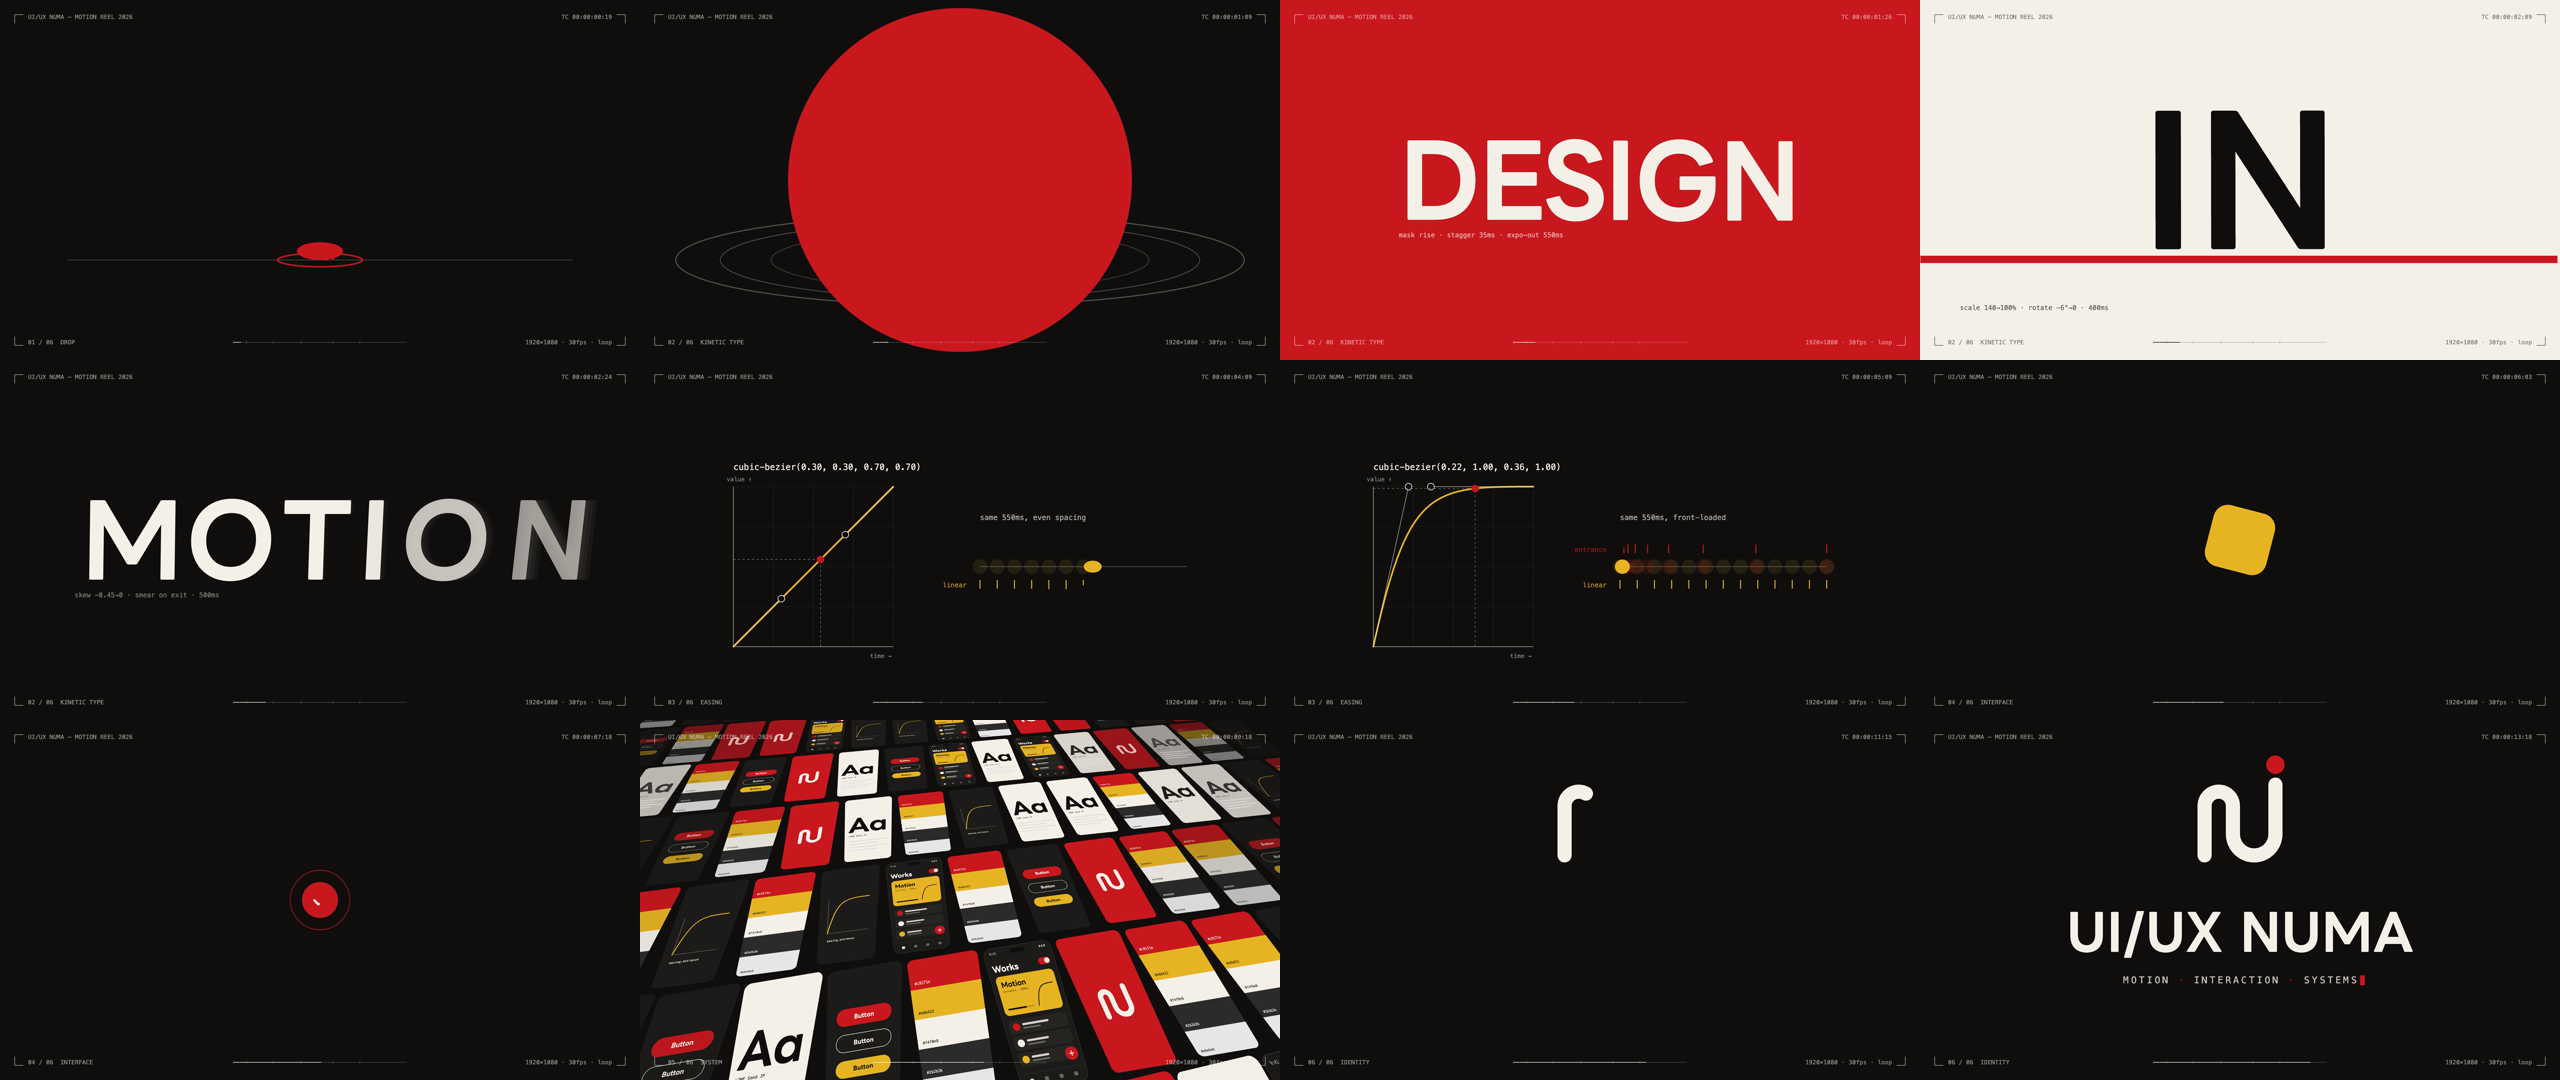
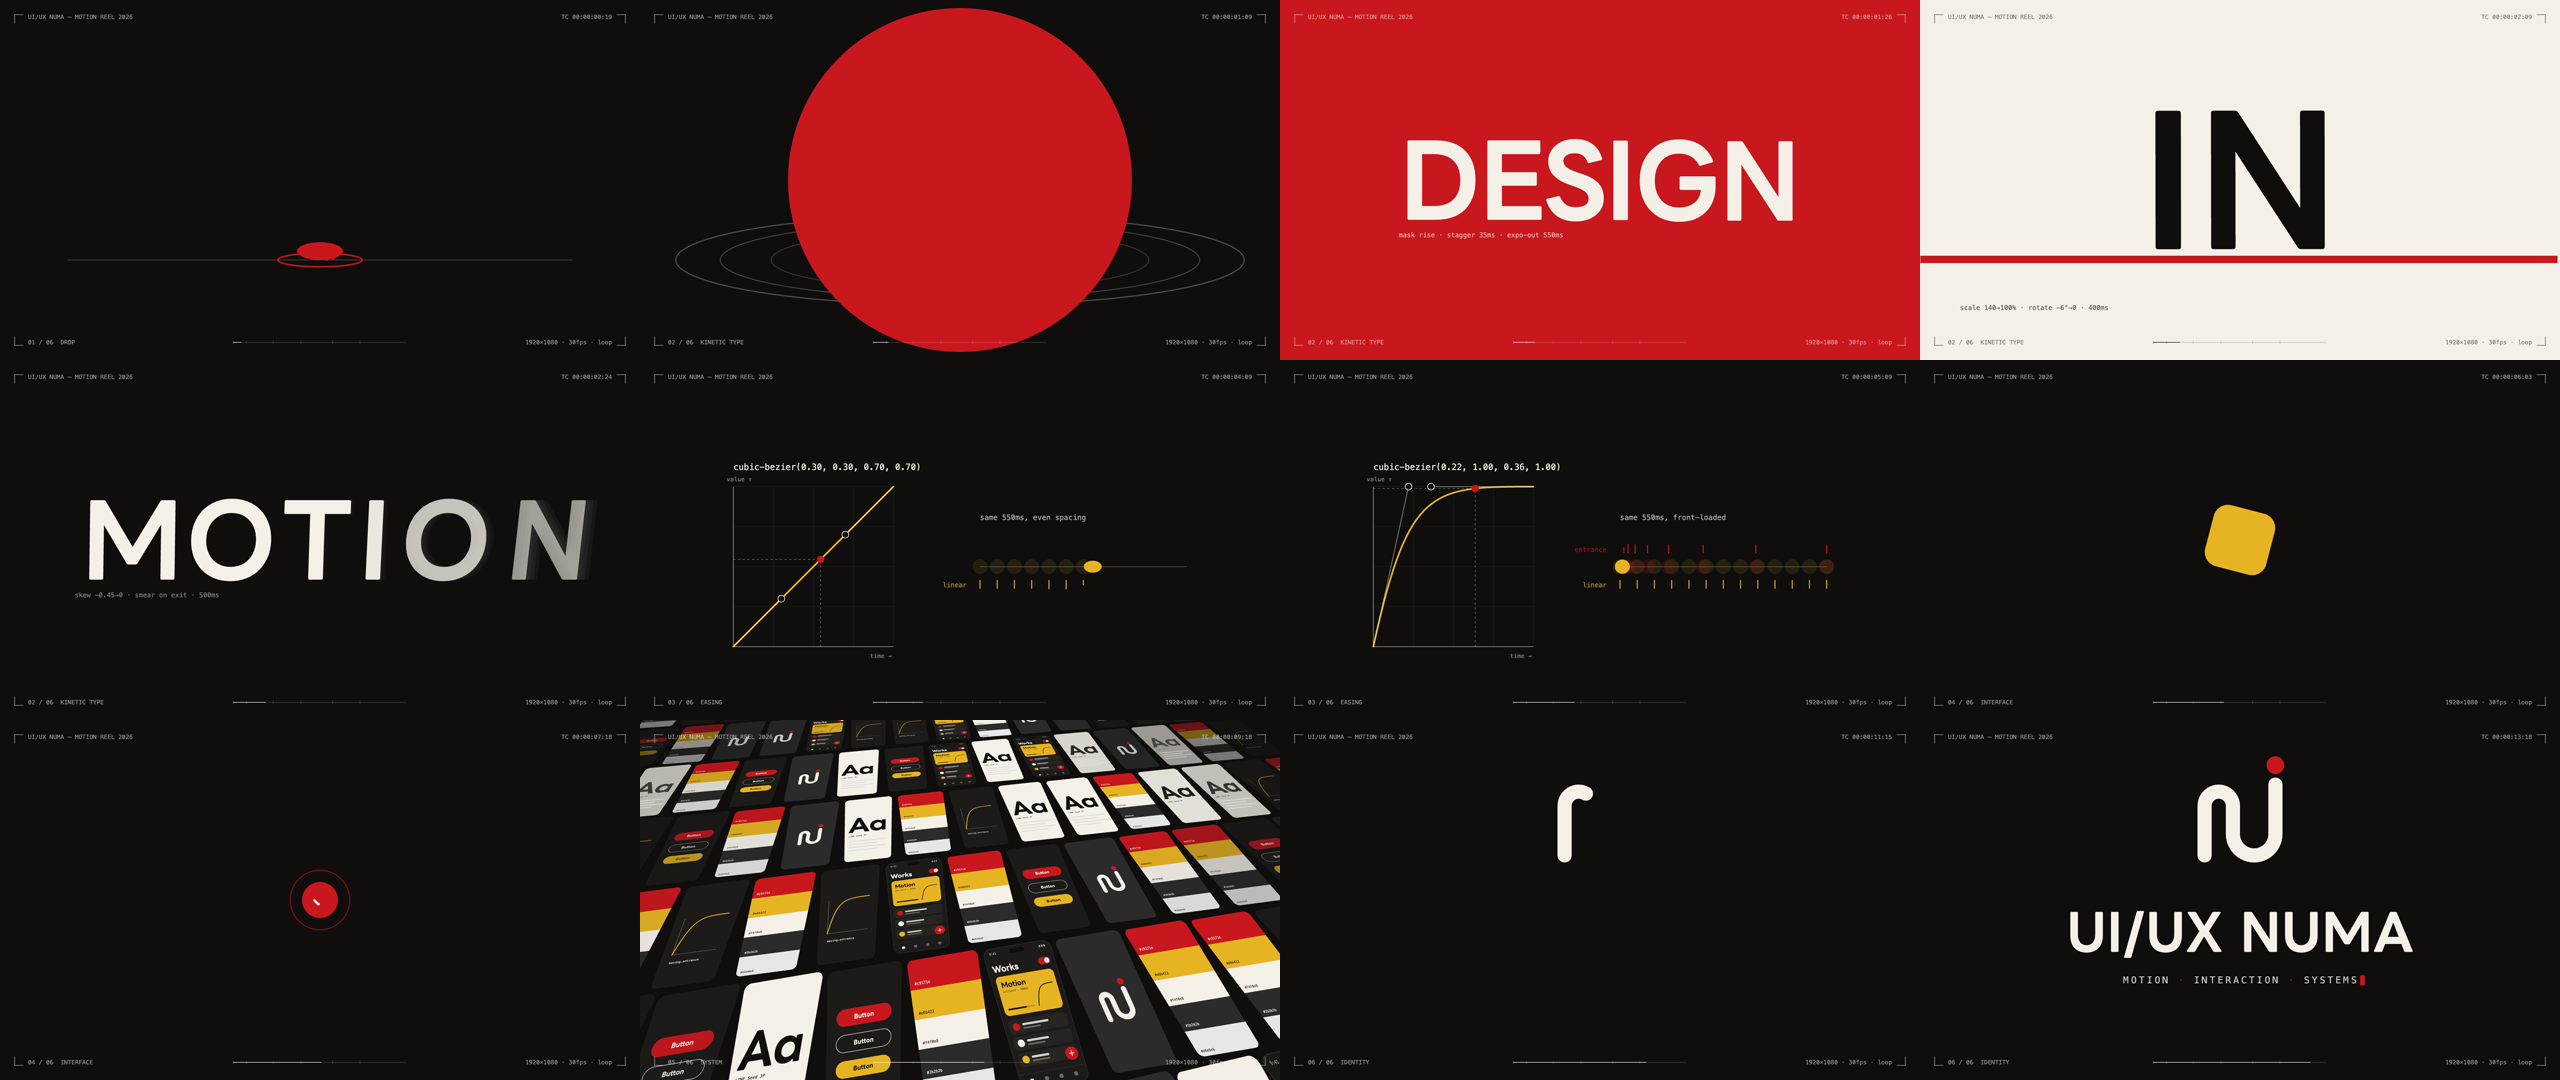
fix: リールのロゴのタイルにもマークの点を描く 🐛
SYSTEM 場面のロゴのタイルだけ点が無く、サイトのマークと点の有無が食い違っていた。
赤い地では点が沈むので、タイルの地を墨にし、紙の字と赤い点で描く。
preview の要所の一覧とポスターを書き出し直す。

Changed region(s): [[0.4062, 0.7639, 0.4688, 1.0], [0.2812, 0.6417, 0.3438, 0.7944], [0.4062, 0.6722, 0.4688, 0.7333]]

diff --git a/experiments/catalog-showreel/variants/ink-ripple/reel.ts b/experiments/catalog-showreel/variants/ink-ripple/reel.ts
@@ -1091,7 +1091,8 @@ function drawTile(ctx: Ctx, kind: number) {
       break;
     }
     case 2: {
-      ctx.fillStyle = RED;
+      // マークは点まで含めて描く。赤い地では点が沈むので、地を墨にし、Catalog の暗い面と同じ色で置く。
+      ctx.fillStyle = GREY;
       ctx.fillRect(-w / 2, -h / 2, w, h);
       ctx.save();
       ctx.translate(-144, -144);
@@ -1101,6 +1102,8 @@ function drawTile(ctx: Ctx, kind: number) {
       ctx.lineCap = "round";
       ctx.lineJoin = "round";
       ctx.stroke(logoPath());
+      ctx.fillStyle = RED;
+      circle(ctx, 26, 2.5, 2.5);
       ctx.restore();
       break;
     }

diff --git a/experiments/catalog-showreel/README.md b/experiments/catalog-showreel/README.md
@@ -96,10 +96,11 @@ crafting-motion の手順に沿った判断は次のとおり。
 
 ### 反復の記録
 
-| round | 観察                                                                                           | 変更                                | 参照した知識                         | 終了理由                   |
-| ----- | ---------------------------------------------------------------------------------------------- | ----------------------------------- | ------------------------------------ | -------------------------- |
-| 1     | EASING の走る前から、軌道に目盛りの残像が全部出ていた。`outBack(0)` が浮動小数の誤差で正になる | 目盛りの区間に入る前は 0 に固定した | なし                                 | 0.2 秒刻みの書き出しで確認 |
-| 1     | SYSTEM から IDENTITY への閃光が 0.25 秒あり、灰色の面が濁って見えた                            | 閃光を 0.15 秒に縮めた              | crafting-motion の「急な変化の緩和」 | 0.2 秒刻みの書き出しで確認 |
+| round | 観察                                                                                           | 変更                                               | 参照した知識                         | 終了理由                   |
+| ----- | ---------------------------------------------------------------------------------------------- | -------------------------------------------------- | ------------------------------------ | -------------------------- |
+| 1     | EASING の走る前から、軌道に目盛りの残像が全部出ていた。`outBack(0)` が浮動小数の誤差で正になる | 目盛りの区間に入る前は 0 に固定した                | なし                                 | 0.2 秒刻みの書き出しで確認 |
+| 1     | SYSTEM から IDENTITY への閃光が 0.25 秒あり、灰色の面が濁って見えた                            | 閃光を 0.15 秒に縮めた                             | crafting-motion の「急な変化の緩和」 | 0.2 秒刻みの書き出しで確認 |
+| 2     | SYSTEM のロゴのタイルだけ点が無く、サイトのマークと食い違っていた                              | タイルの地を赤から墨に替え、紙の字と赤い点で描いた | なし                                 | 点の有無がそろった         |
 
 ## Evaluation
 
